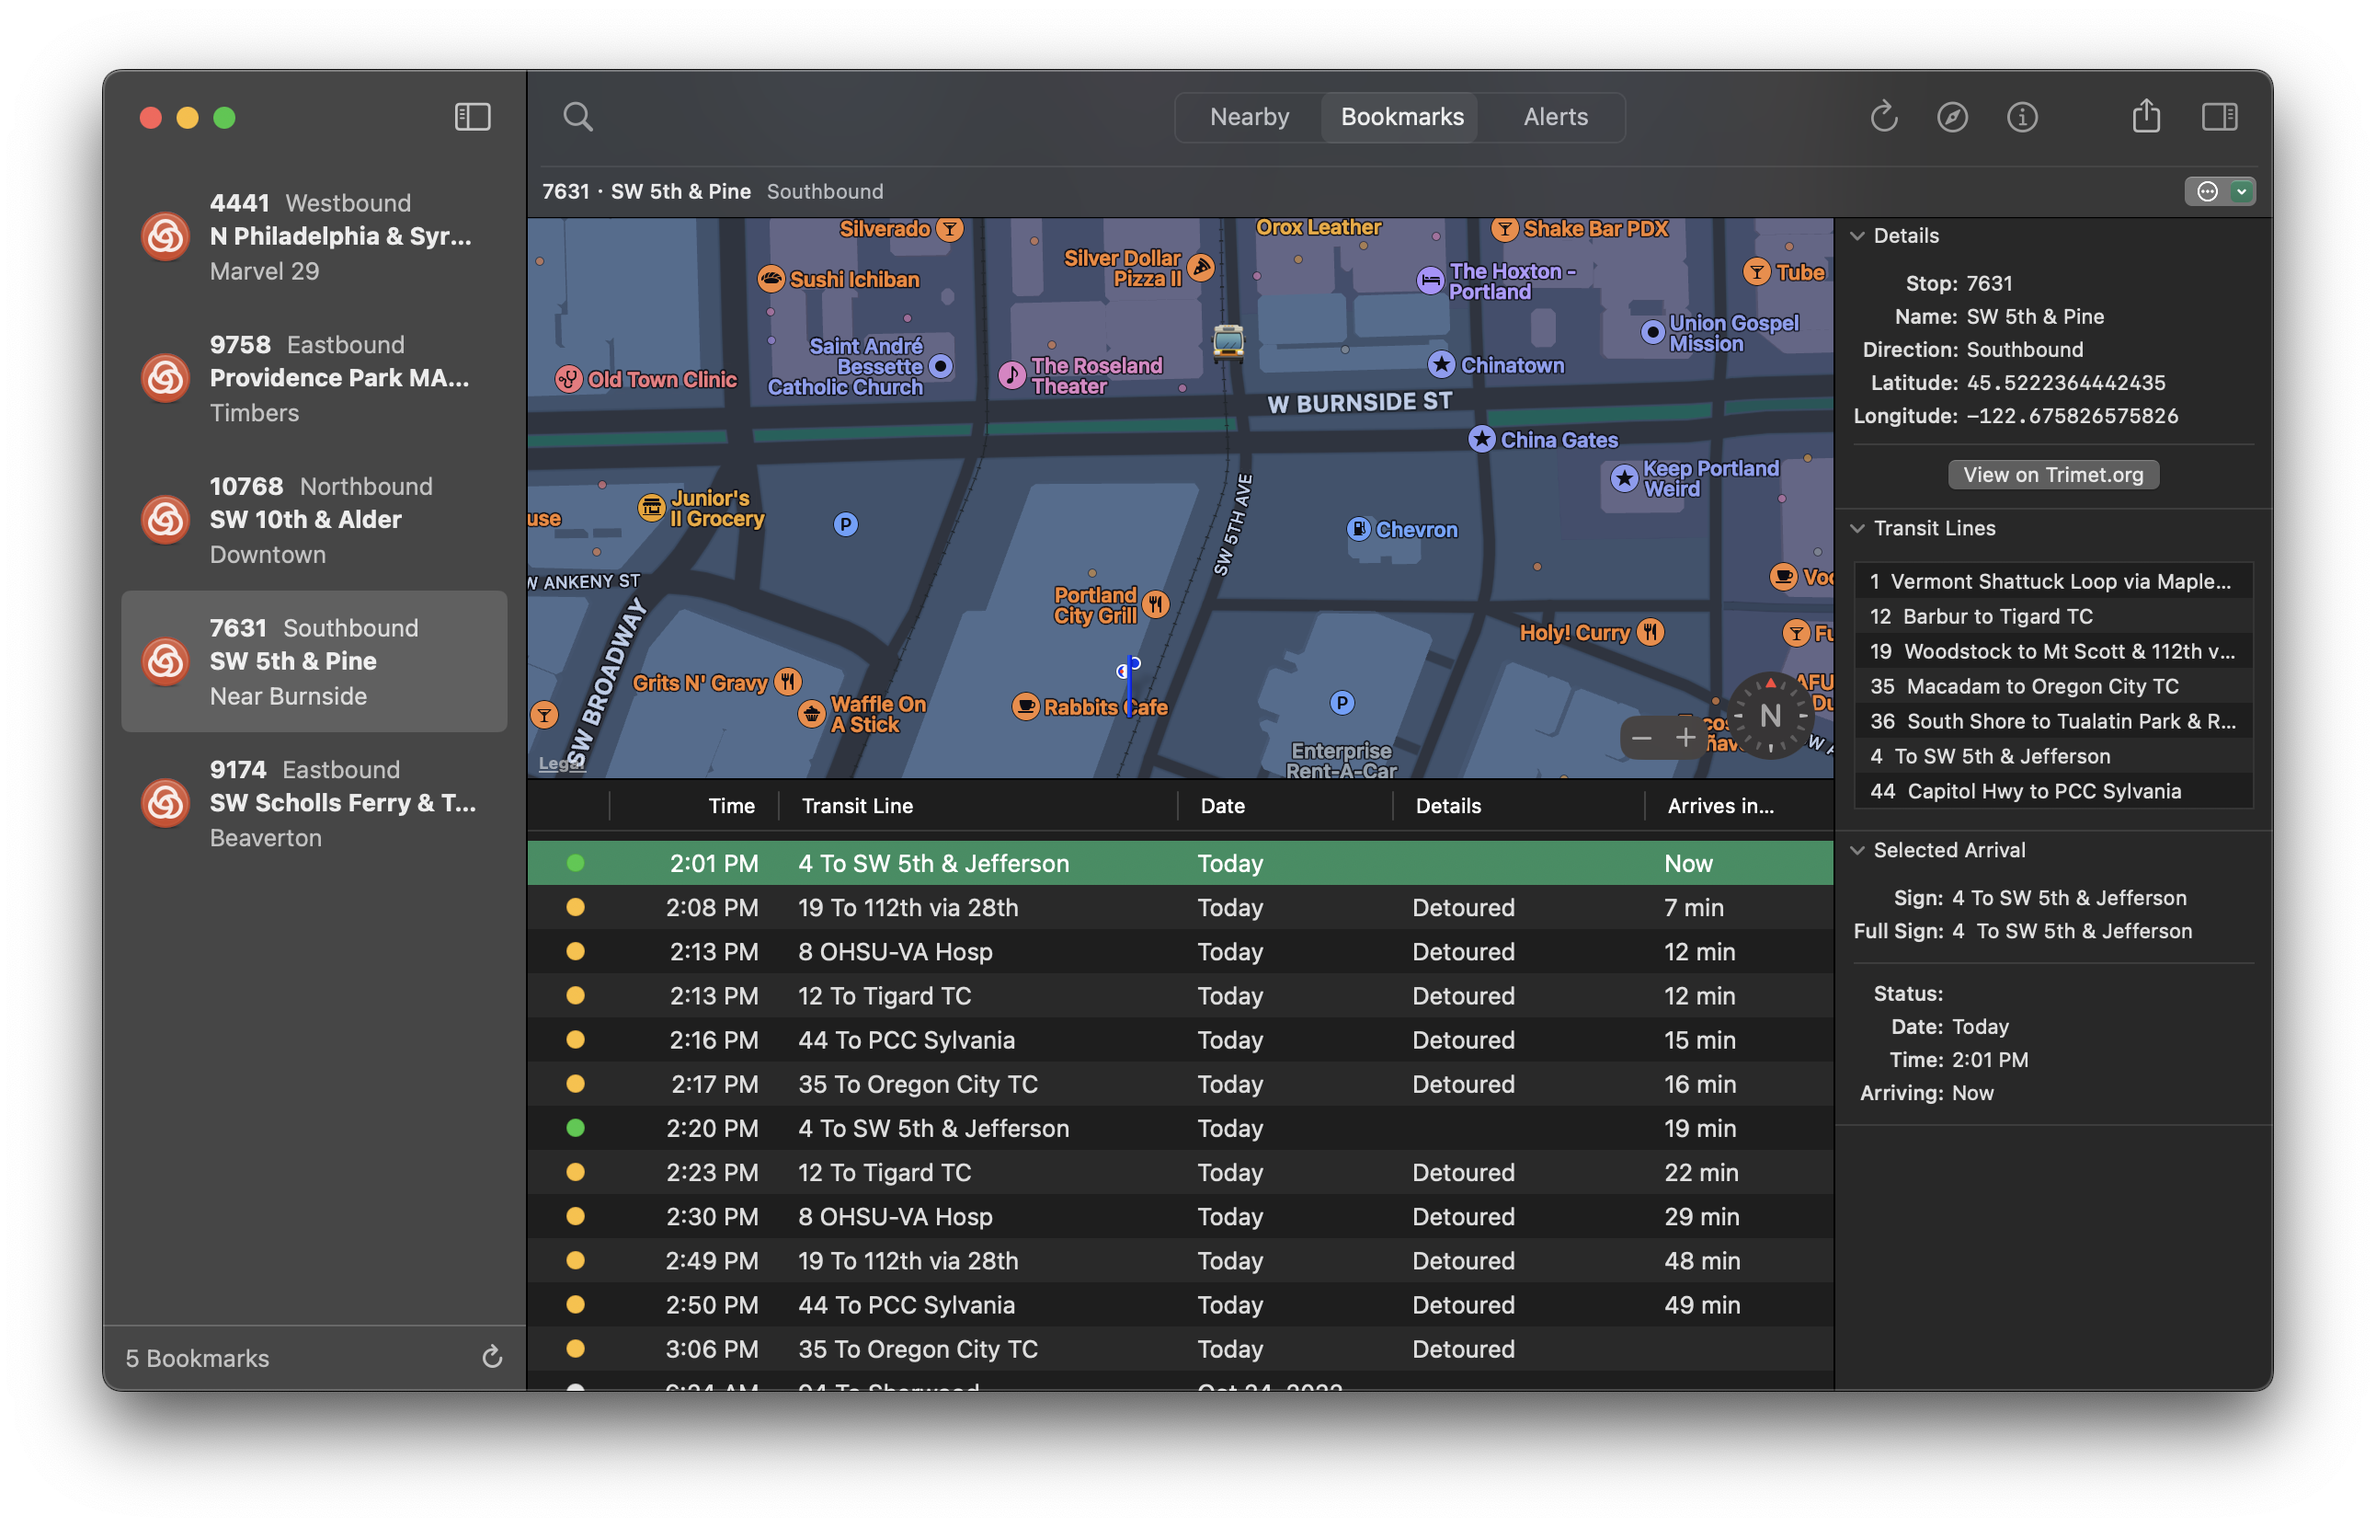
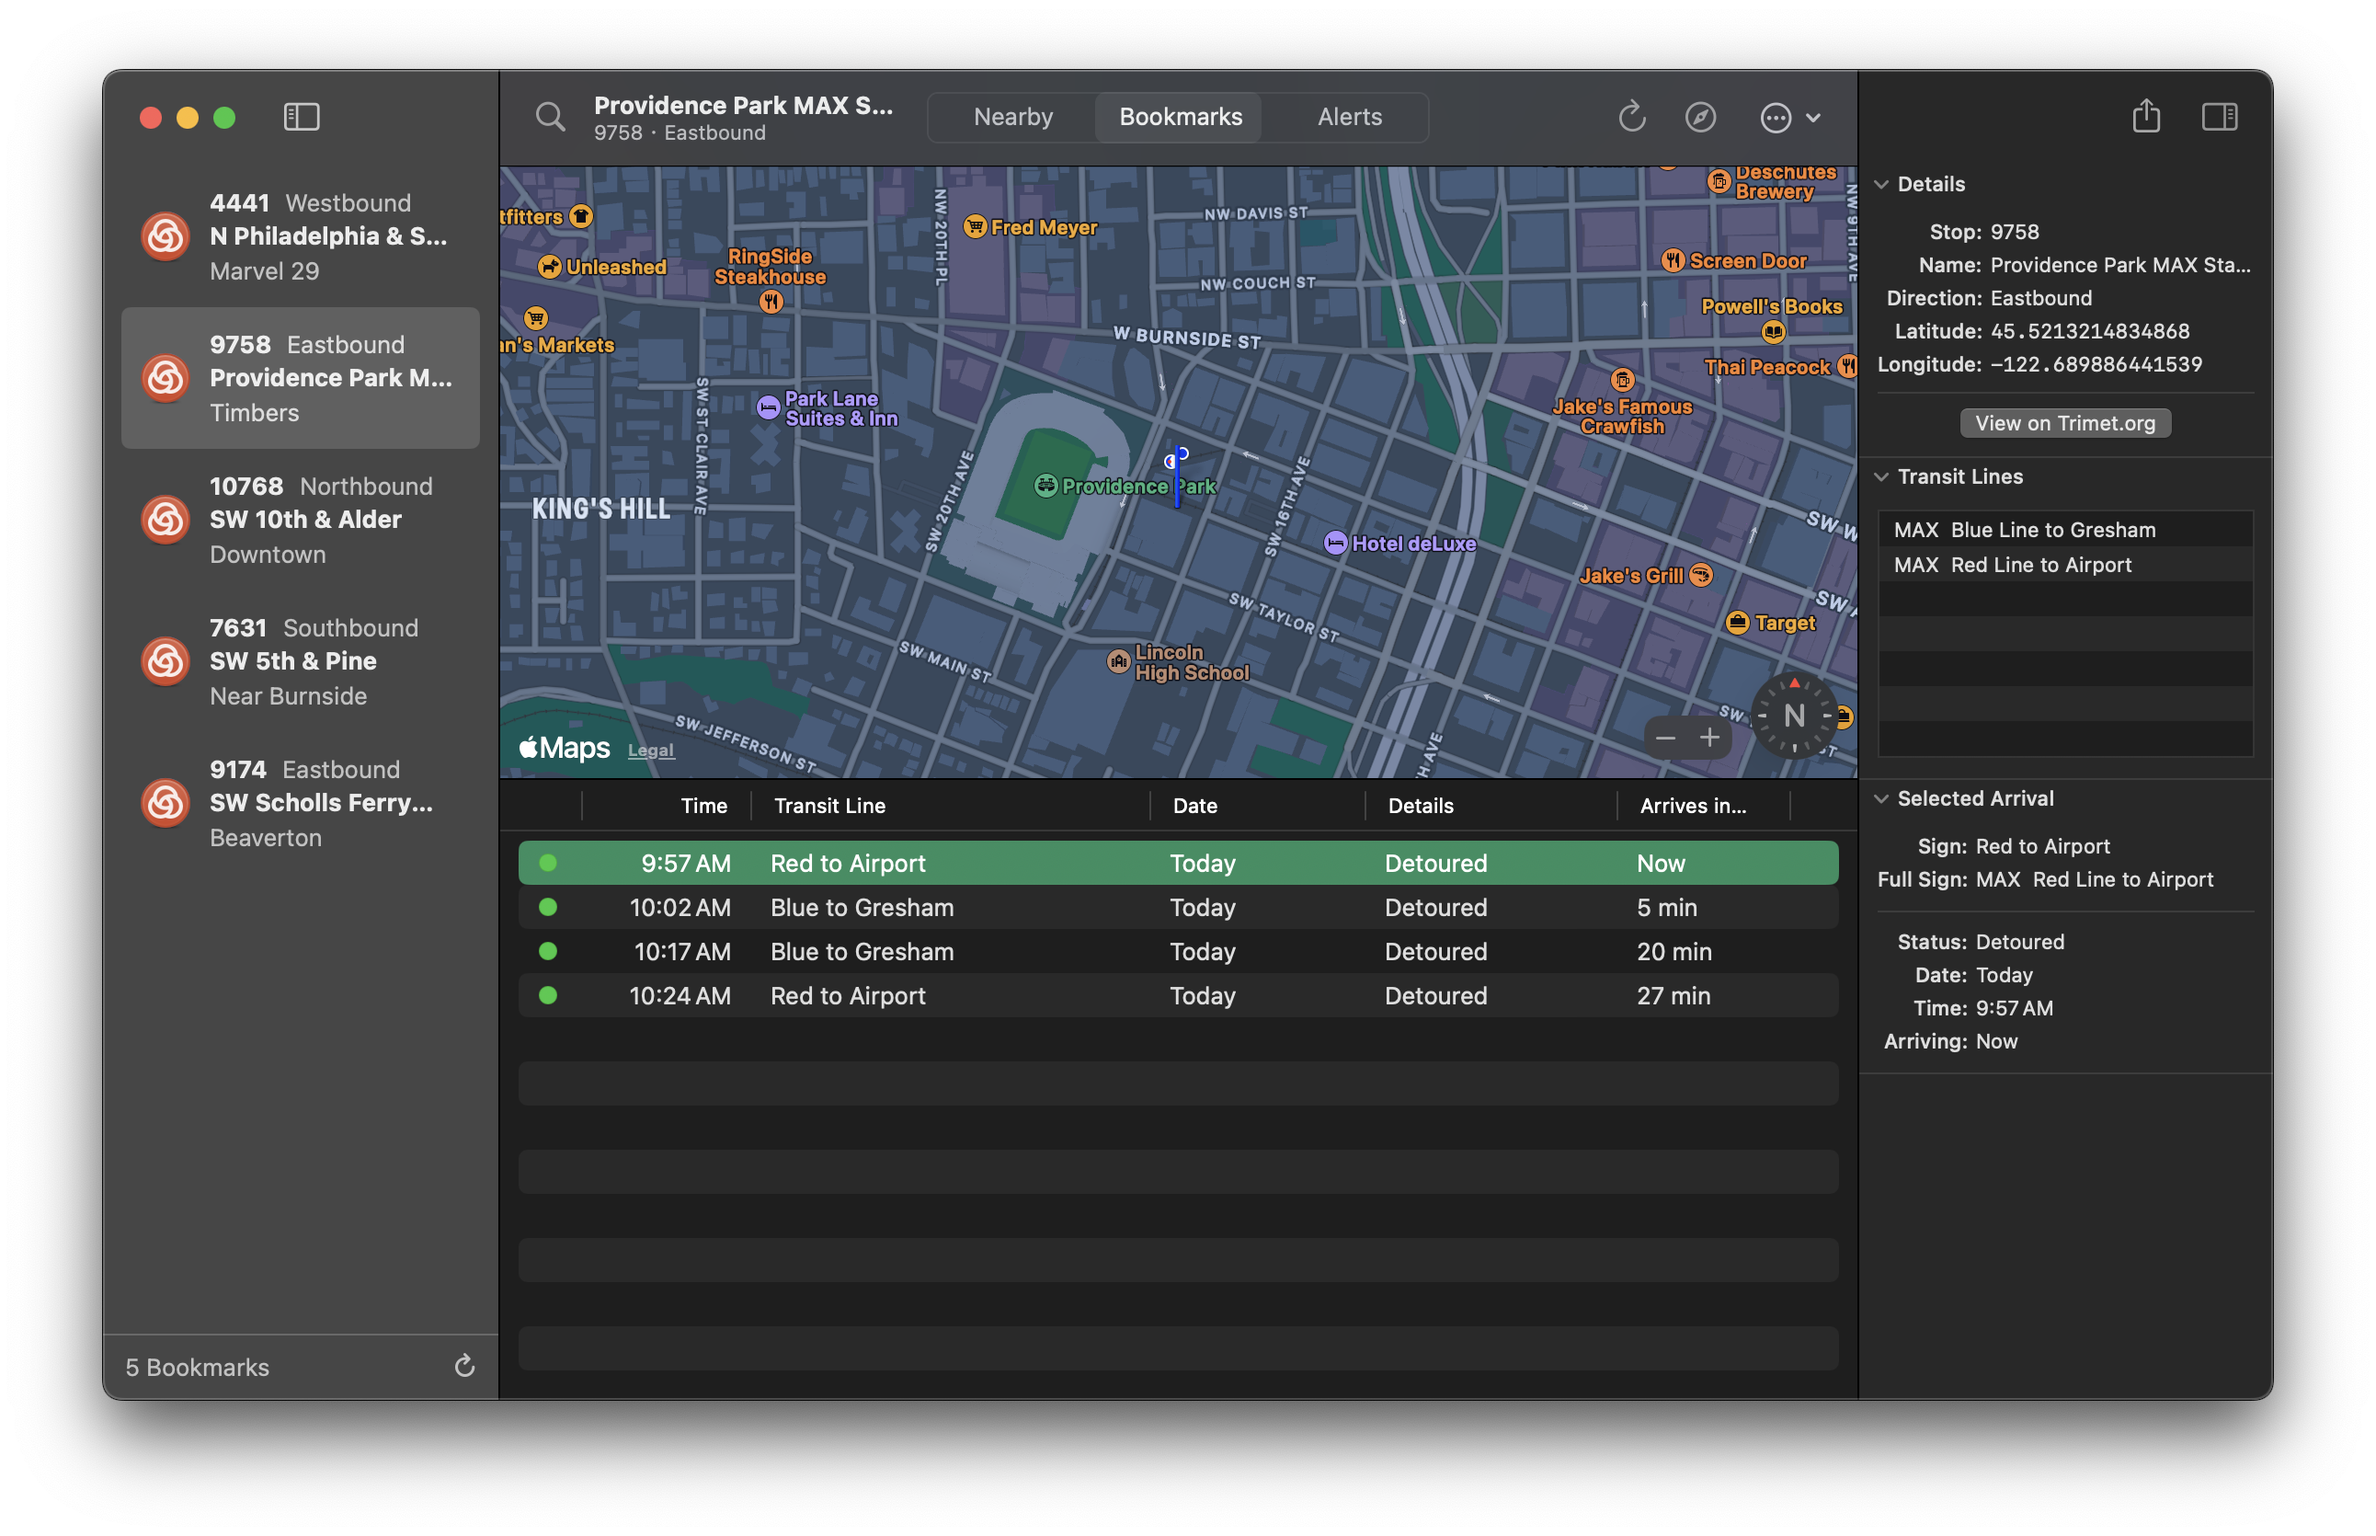
Screenshots for macOS Sonoma updates

diff --git a/pdxtransit/macos/index.html b/pdxtransit/macos/index.html
@@ -90,7 +90,7 @@
 						alt="PDX Transit Logo Splash">
 					<h3><span class="text-muted">for Macintosh</span></h3>
 					<p>PDX Transit for macOS is the counterpart for PDX Transit on iOS and watchOS. It conveniently provides you with nearby transit stops, arrival times, and service alerts using TriMet's open data API.</p>
-					<p><b>Now optimized for macOS Ventura and Mac computers with the latest Apple Silicon.</b></p>
+					<p><b>Now optimized for macOS Sonoma and Macintosh computers with the latest Apple Silicon.</b></p>
 					<p><a href="https://itunes.apple.com/us/app/pdx-transit/id1446232545?mt=12"><img src="../../images/Download_on_the_Mac_App_Store_Badge_US.svg" alt="Download on the Mac App Store"></a></p>
 				</div>
 			</div>
@@ -109,7 +109,7 @@
 				<div class="col-lg-8 offset-lg-2" style="text-align: center;">
 					<h4 class="card-text">Nearby Transit Stops & Arrival Times</h4>
 					<p class="text-muted">PDX Transit uses your current location to find nearby TriMet transit stops. Select a transit stop to get arrival times and other details.</p>
-					<p class="text-muted"><b>New for PDX Transit 12.7</b>, Arrival Times now has an Info sidebar that displays additional details about the selected transit stop and any selected arrival.</p>
+					<p class="text-muted"><b>New for PDX Transit 13.0</b>, the recently-added info sidebar is now the Inspector sidebar with the all new top-to-bottom UI introduced in macOS Sonoma. Additionally, the toolbar has been simplified by removing the secondary toolbar and moving the title, subtitle, and action menu into the primary toolbar. <b>Coming Soon.</b></p>
 				</div>
 			</div>
 			
@@ -148,6 +148,7 @@
 				<div class="col-lg-8 offset-lg-2" style="text-align: center;">
 					<h4 class="card-text">Service Alerts</h4>
 					<p class="text-muted">View all service alerts published by TriMet grouped and sorted by transit line. Crtical system-wide service alerts are displayed underneath the toolbar in a scrolling-marquee fashion.</p>
+					<p class="text-muted"><b>New for PDX Transit 13.0</b>, details for a specific service alert have moved to the new Inspector Sidebar. <b>Coming Soon.</b></p>
 				</div>
 			</div>
 			
@@ -177,7 +178,7 @@
 					<h4>Ready to give it a try?</h4>
 					<p>Check it out first hand and see what makes PDX Transit an incredibly useful tool for those who use public transit in Portland, Oregon.</p>
 					<p><a href="https://itunes.apple.com/us/app/pdx-transit/id1446232545?mt=12"><img src="../../images/Download_on_the_Mac_App_Store_Badge_US.svg" alt="Download on the Mac App Store"></a></p>
-					<small class="text-muted">Looking for more info? Check out our <a href="privacypolicy.html">Privacy Policy</a>.</small>
+					<small class="text-muted">Read PDX Transit's <a href="privacypolicy.html">Privacy Policy</a>.</small>
 				</div>
 			</div>
 			
